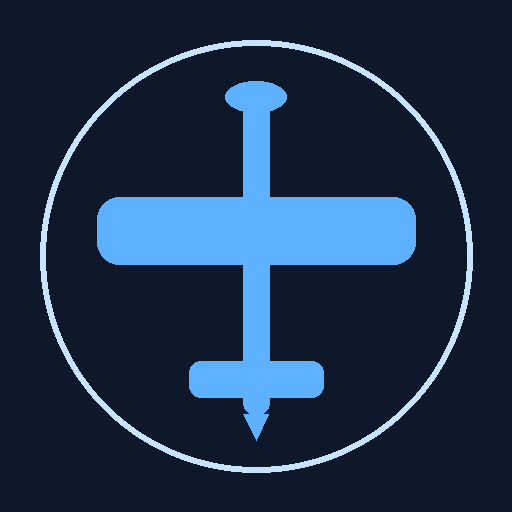
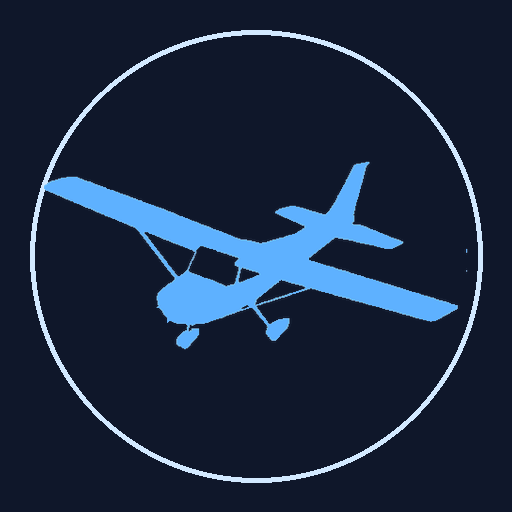
Add files via upload

Changed region(s): [[0.0312, 0.0312, 0.9688, 0.9688]]

diff --git a/app.js b/app.js
@@ -134,8 +134,9 @@ const App = (function(){
     runway: { ident: '', heading: 160, elev: 0, slope: 0, tora: 0, lda: 0, surface: 'paved', condition: 'dry' },
     conditions: { oat: null, qnh: 1013 },  // oat=null means default to ISA at elev
     wind: { mode: 'dirspeed', dir: 0, speed: 0, headwind_component: 0 },
-    operation: 'private_paved_day',
-    use_landing_weight_for_landing: true,  // pilot-set toggle
+    op_type: 'private',     // 'private' or 'air_transport'
+    op_time: 'day',         // 'day' or 'night'
+    use_landing_weight_for_landing: true,
   };
   let recentRunways = [];
   let chart = null;
@@ -160,6 +161,13 @@ const App = (function(){
     if (ac.pchart_id === undefined) ac.pchart_id = null;
     if (ac.crosswind_demonstrated_kt === undefined) ac.crosswind_demonstrated_kt = null;
     if (ac.crosswind_club_kt === undefined) ac.crosswind_club_kt = null;
+    // One-time fix-up: the default PA-38 demo aircraft should be bound to the PA-38 P-chart.
+    // Existing installs from before P-chart support won't have this set; restore it now
+    // without disturbing user-edited fields.
+    if (ac.id === 'pa38-demo' && !ac.pchart_id){
+      ac.pchart_id = 'PA-38';
+      if (ac.crosswind_demonstrated_kt == null) ac.crosswind_demonstrated_kt = 15;
+    }
     return ac;
   }
   function load(){
@@ -950,6 +958,22 @@ const App = (function(){
   }
 
   // ---- performance ----
+
+  // Derive the canonical operation key used by P-chart data, from op_type, op_time, surface
+  function deriveOperationKey(op_type, op_time, surface){
+    // surface 'paved' / 'grass' / other (metal, coral, etc. treat as grass for safety)
+    const grass = (surface !== 'paved');
+    if (op_time === 'night'){
+      // Night = "All Ops Night" line (no Private/AT distinction at night per CASO 4)
+      return grass ? 'all_ops_grass_night' : 'all_ops_paved_night';
+    }
+    if (op_type === 'air_transport'){
+      return grass ? 'air_transport_grass_day' : 'air_transport_paved_day';
+    }
+    // Private day
+    return grass ? 'private_grass_day' : 'private_paved_day';
+  }
+
   function renderPerformance(){
     const ac = fleet.find(a => a.id === selectedId);
     if (!ac) return;
@@ -965,12 +989,11 @@ const App = (function(){
     document.getElementById('rwy-surface').value = r.surface || 'paved';
     document.getElementById('rwy-condition').value = r.condition || 'dry';
 
-    // Bind conditions
     document.getElementById('cond-oat').value = perfInput.conditions.oat ?? '';
     document.getElementById('cond-qnh').value = perfInput.conditions.qnh ?? 1013;
 
-    // Operation selector
-    document.getElementById('perf-op').value = perfInput.operation;
+    document.getElementById('perf-op-type').value = perfInput.op_type;
+    document.getElementById('perf-op-time').value = perfInput.op_time;
 
     // Recent runways dropdown
     const rrRow = document.getElementById('recent-runways-row');
@@ -990,7 +1013,7 @@ const App = (function(){
   }
 
   function bindPerfHandlers(){
-    const fields = ['rwy-ident','rwy-hdg','rwy-elev','rwy-slope','rwy-tora','rwy-lda','rwy-surface','rwy-condition','cond-oat','cond-qnh','perf-op'];
+    const fields = ['rwy-ident','rwy-hdg','rwy-elev','rwy-slope','rwy-tora','rwy-lda','rwy-surface','rwy-condition','cond-oat','cond-qnh','perf-op-type','perf-op-time'];
     fields.forEach(id => {
       const el = document.getElementById(id);
       if (!el) return;
@@ -1012,7 +1035,8 @@ const App = (function(){
     const oat_val = document.getElementById('cond-oat').value;
     perfInput.conditions.oat = oat_val === '' ? null : parseFloat(oat_val);
     perfInput.conditions.qnh = parseFloat(document.getElementById('cond-qnh').value) || 1013;
-    perfInput.operation = document.getElementById('perf-op').value;
+    perfInput.op_type = document.getElementById('perf-op-type').value;
+    perfInput.op_time = document.getElementById('perf-op-time').value;
     computeAndRenderPerf();
   }
 
@@ -1096,20 +1120,51 @@ const App = (function(){
     const wet = (r.condition === 'wet' || r.condition === 'long_grass');
 
     const pdata = ac.pchart_id && window.PCHART_DATA && window.PCHART_DATA[ac.pchart_id];
-    const opHelp = document.getElementById('perf-op-help');
+
+    // Derive the canonical operation key from the user's choices + runway surface
+    const opKey = deriveOperationKey(perfInput.op_type, perfInput.op_time, r.surface);
+    const surfaceIsGrass = (r.surface !== 'paved');
+    const opLabelMap = {
+      private_paved_day:        'Private — Paved — Day',
+      air_transport_paved_day:  'Air Transport — Paved — Day',
+      private_grass_day:        'Private — Grass — Day',
+      air_transport_grass_day:  'Air Transport — Grass — Day',
+      all_ops_paved_night:      'All Ops — Paved — Night',
+      all_ops_grass_night:      'All Ops — Grass — Night',
+    };
+
+    // Annotate the Surface label
+    const sln = document.getElementById('surface-label-note');
+    if (sln) sln.textContent = pdata ? '· feeds Operation' : '· used in calc (AFM mode)';
+
+    // Show derived line
+    const opDerived = document.getElementById('perf-op-derived');
+    if (opDerived){
+      opDerived.innerHTML = pdata
+        ? `→ P-chart line: <strong>${opLabelMap[opKey]}</strong> (auto-set from surface)`
+        : `→ no P-chart data — Surface selection is used directly`;
+    }
+
+    // Air Transport warning
+    const opWarn = document.getElementById('perf-op-warning');
+    if (opWarn){
+      if (perfInput.op_type === 'air_transport'){
+        opWarn.innerHTML = `<div class="banner warn" style="margin:0;font-size:12px">⚠ Air Transport operation selected. This app is normally used for private GA — confirm Air Transport is correct for this flight.</div>`;
+      } else {
+        opWarn.innerHTML = '';
+      }
+    }
 
     let to_result = null, ld_result = null, method = 'none';
     let methodNote = '';
 
     if (pdata){
       method = 'pchart';
-      methodNote = `P-chart method — ${pdata.source}. ${pdata.precision}`;
-      to_result = P.pchartTakeoffDistance(pdata, pa, oat, perfInput.operation, r.slope, headwind, wet);
-      ld_result = P.pchartLandingDistance(pdata, r.elev, perfInput.operation, r.slope, headwind, wet);
-      if (opHelp) opHelp.textContent = 'All 6 operation lines supported via P-chart.';
+      methodNote = `Method: <strong>P-chart</strong> (${pdata.source}). Inputs: pressure altitude, OAT, slope, wind, operation line (incl. surface). The Surface dropdown does NOT directly feed the calc — it sets which Operation line is used.`;
+      to_result = P.pchartTakeoffDistance(pdata, pa, oat, opKey, r.slope, headwind, wet);
+      ld_result = P.pchartLandingDistance(pdata, r.elev, opKey, r.slope, headwind, wet);
     } else {
       method = 'none';
-      if (opHelp) opHelp.textContent = `No P-chart data configured for ${ac.reg}. AFM-based fallback coming in a later update.`;
     }
 
     const host = document.getElementById('perf-results');
@@ -1141,7 +1196,7 @@ const App = (function(){
       }
 
       host.innerHTML =
-        `<div style="font-size:11px;color:var(--muted);margin-bottom:6px">${methodNote}</div>` +
+        `<div style="background:var(--panel-2);padding:8px 10px;border-radius:8px;margin-bottom:8px;font-size:11px;line-height:1.5">${methodNote}</div>` +
         windWarning +
         stat('Takeoff distance required', to_result.distance, r.tora, toOK, 'TORA') +
         stat('Landing distance required', ld_result.distance, r.lda, ldOK, 'LDA');

diff --git a/index.html b/index.html
@@ -238,7 +238,7 @@
           <div><label>LDA (m)</label><input type="number" inputmode="decimal" id="rwy-lda" step="1" placeholder="1719"></div>
         </div>
         <div class="row">
-          <div><label>Surface</label>
+          <div><label>Surface <span id="surface-label-note" style="color:var(--muted);font-size:10px;font-weight:400"></span></label>
             <select id="rwy-surface">
               <option value="paved">Paved</option>
               <option value="grass">Grass</option>
@@ -276,15 +276,22 @@
 
       <div class="card">
         <h2>Operation</h2>
-        <select id="perf-op">
-          <option value="private_paved_day">Private — Day (paved)</option>
-          <option value="air_transport_paved_day">Air Transport — Day (paved)</option>
-          <option value="private_grass_day">Private — Day (grass)</option>
-          <option value="air_transport_grass_day">Air Transport — Day (grass)</option>
-          <option value="all_ops_paved_night">All Ops — Night (paved)</option>
-          <option value="all_ops_grass_night">All Ops — Night (grass)</option>
-        </select>
-        <small class="help" id="perf-op-help" style="margin-top:4px"></small>
+        <div class="row">
+          <div><label>Type</label>
+            <select id="perf-op-type">
+              <option value="private">Private</option>
+              <option value="air_transport">Air Transport</option>
+            </select>
+          </div>
+          <div><label>Time of day</label>
+            <select id="perf-op-time">
+              <option value="day">Day</option>
+              <option value="night">Night</option>
+            </select>
+          </div>
+        </div>
+        <div id="perf-op-derived" style="font-size:11px;color:var(--muted);margin-top:6px"></div>
+        <div id="perf-op-warning" style="margin-top:6px"></div>
       </div>
 
       <div class="card">

diff --git a/sw.js b/sw.js
@@ -1,4 +1,4 @@
-const CACHE = 'wb-v5';
+const CACHE = 'wb-v8';
 const ASSETS = [
   './',
   './index.html',